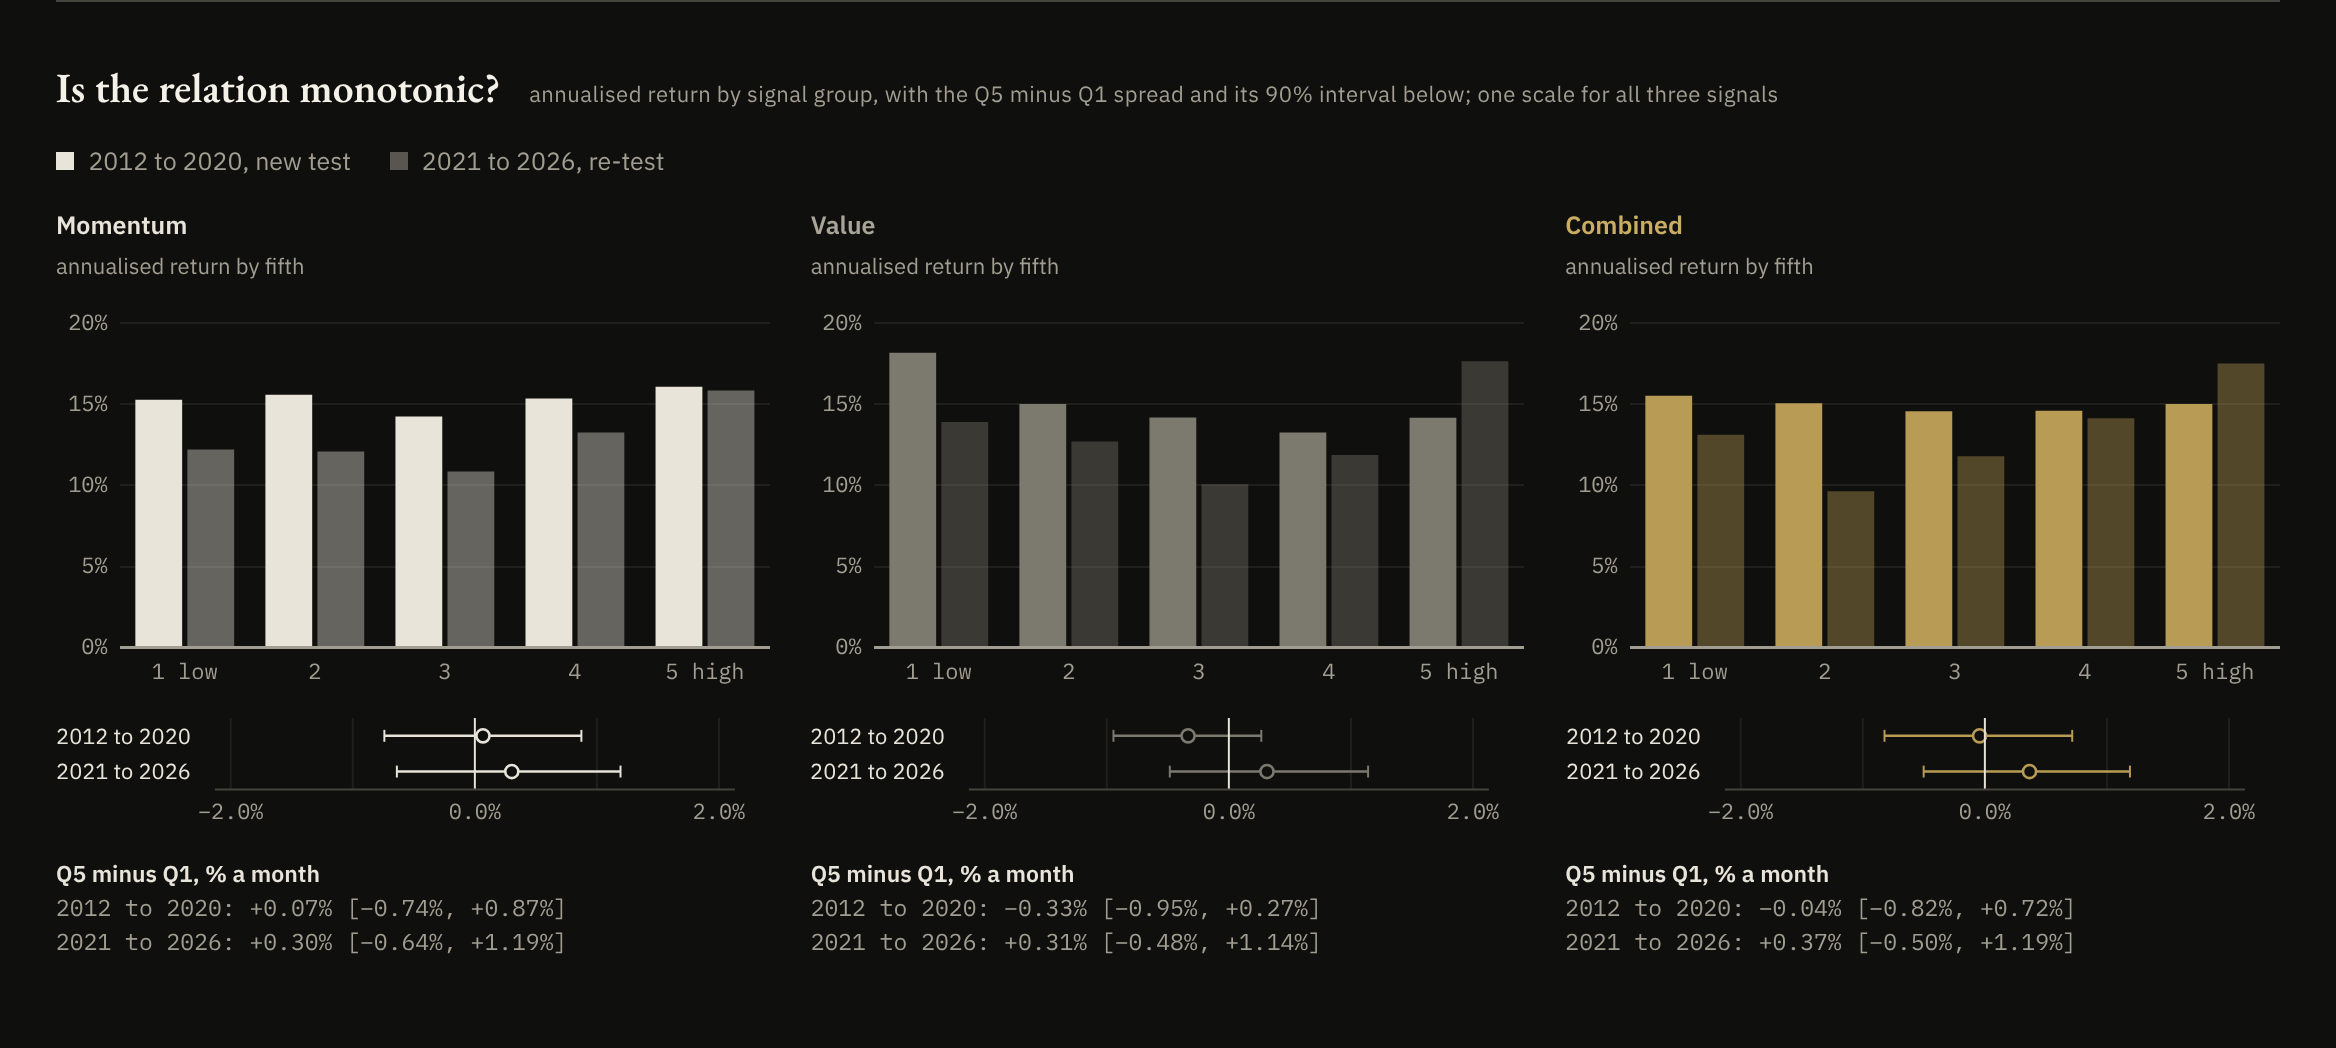
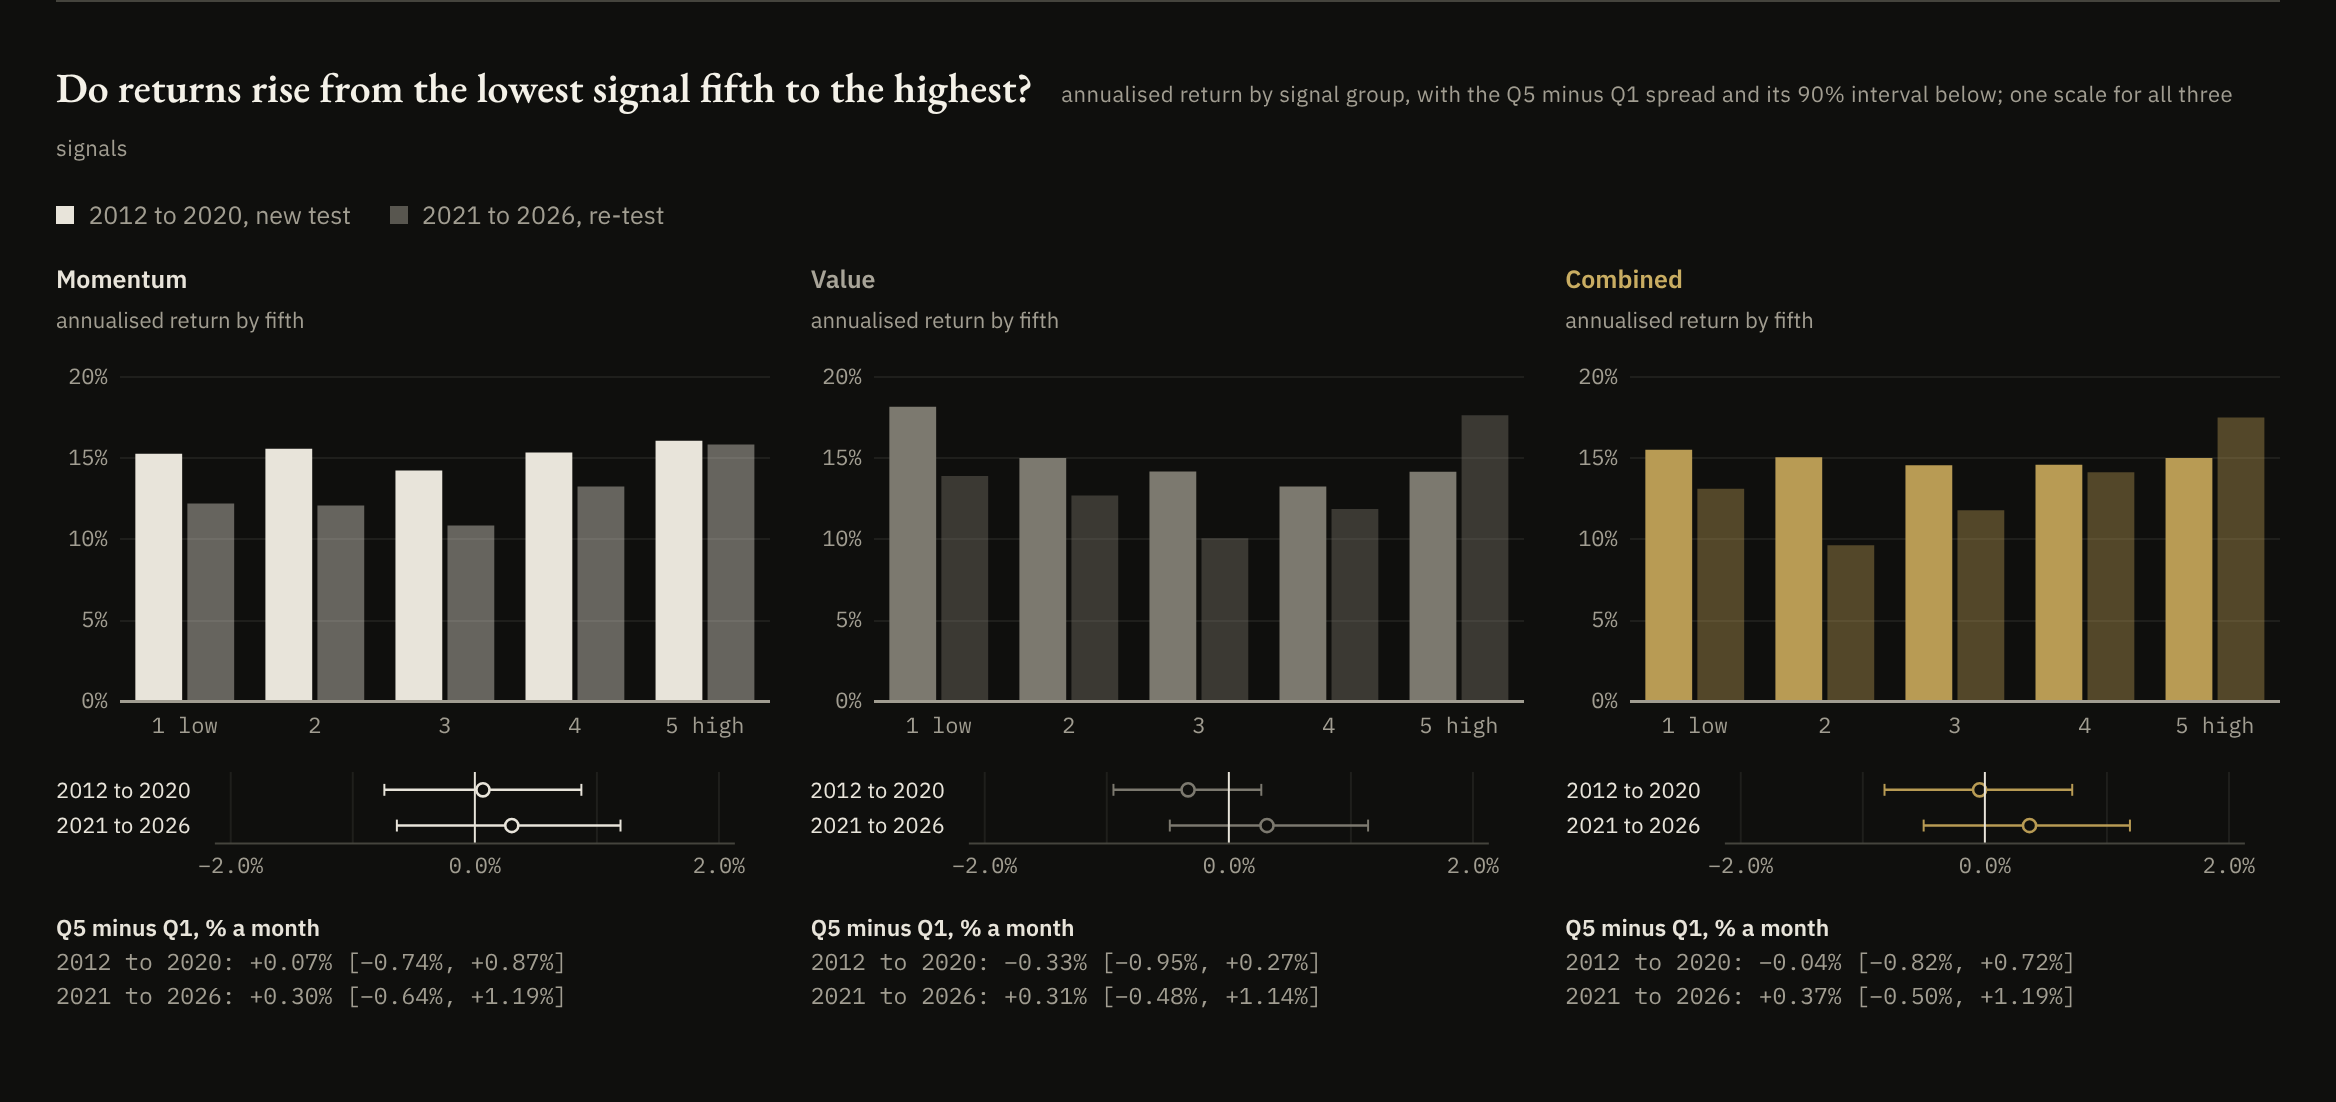
Dashboard: plainer panel titles on Summary, Signals and Method; recapture images 01, 05, 06
Summary titles say "can be told apart from zero" or "differs detectably",
count lines name what is counted, return headline notes survivorship, ledger
title no longer repeats the 33, plan-log title notes the 17-stock entries,
Signals heading is a direct question.

Claude-Session: https://claude.ai/code/session_011fgVJr68gJNNcQ627Q91RH

diff --git a/index.html b/index.html
@@ -17,8 +17,8 @@
 <meta name="color-scheme" content="dark">
 <link rel="icon" type="image/svg+xml" href="assets/favicon.svg">
 <title>Summary | Equity Factor Research</title>
-<script src="assets/theme.js?v=22"></script>
-<link rel="stylesheet" href="assets/styles.css?v=22">
+<script src="assets/theme.js?v=23"></script>
+<link rel="stylesheet" href="assets/styles.css?v=23">
 </head>
 <body>
 <div id="chrome"></div>
@@ -114,7 +114,7 @@
 <script src="assets/universe_stocks_data.js"></script>
 <script src="assets/universe_sens_data.js"></script>
 <script src="assets/meta_data.js"></script>
-<script src="assets/dashboard.js?v=22"></script>
+<script src="assets/dashboard.js?v=23"></script>
 <script>
 renderChrome("index.html", "S&amp;P 500 members &middot; Jan 2012 to Aug 2026 &middot; monthly &middot; Momentum (11-month) &middot; Value (P/B) &middot; Combined");
 const X = UNIVERSE_EXTRAS;
@@ -191,7 +191,7 @@ const mde = minDetectableIC();
     sharpe: { axis: v => v.toFixed(1), val: v => sgn(v, 2) }
   };
   const TEST_TITLE = { rank_ic: "Rank IC", quintile_spread: "Quintile spread, a month", fama_macbeth_single: "Fama-MacBeth slope, one signal", fama_macbeth_joint: "Fama-MacBeth slope, Momentum and Value together" };
-  const counted = (el, flagged, total, tail) => { document.getElementById(el).innerHTML = `<b>${flagged} of ${total}</b> exclude zero<span>${tail}</span>`; };
+  const counted = (el, flagged, total, noun, tail) => { document.getElementById(el).innerHTML = `<b>${flagged} of ${total}</b> ${noun} have a 90% interval that excludes zero<span>${tail}</span>`; };
   const chance = n => (n * 0.1).toFixed(1);
   const testRow = (r, rest) => ({ sig: r.signal, rest: ", " + rest, mean: r.mean, lo: r.ci_90_lower, hi: r.ci_90_upper, excl: r.excludes_zero });
 
@@ -202,8 +202,8 @@ const mde = minDetectableIC();
     rows: SIGNALS.flatMap(sig => PERIODS.map(p => tests.find(r => r.test === k && r.signal === sig && r.period === p.key && p)).filter(Boolean)
       .map(r => testRow(r, PERIOD_LABEL[r.period])))
   })).filter(b => b.rows.length);
-  document.getElementById("f1Title").textContent = flag1 === 0 ? "No registered signal test has a 90% interval that excludes zero" : flag1 + " of " + tests.length + " registered signal tests have a 90% interval that excludes zero";
-  counted("f1Count", flag1, tests.length, ", against about " + chance(tests.length) + " expected by chance");
+  document.getElementById("f1Title").textContent = flag1 === 0 ? "No registered signal test shows a relation that can be told apart from zero" : flag1 + " of " + tests.length + " registered signal tests show a relation that can be told apart from zero";
+  counted("f1Count", flag1, tests.length, "tests", ", against about " + chance(tests.length) + " expected by chance");
   familyForest("f1Forest", blocks1);
   document.getElementById("f1Caption").innerHTML = "Each row is one test: the estimate (marker) and its 90% bootstrap interval (line) against zero (vertical line). The tests are in different units, so each block has its own scale with zero in the same place. " +
     "A filled marker means the interval excludes zero; a hollow marker that it includes zero. The smallest effect each signal's 2012 to 2020 test could detect is in the Detectable effect table below. " +
@@ -216,8 +216,8 @@ const mde = minDetectableIC();
     const r = head.find(x => x.period === p.key && x.strategy === sig && x.size === z);
     if (r) rows2.push({ sig, rest: ", " + SIZE_LABEL[z].toLowerCase(), mean: r.diff, lo: r.lo, hi: r.hi, excl: r.sig });
   })); });
-  document.getElementById("f2Title").textContent = hit.length === 0 ? "No registered Sharpe comparison has a 90% interval that excludes zero" : hit.length + " of " + head.length + " registered Sharpe comparisons have a 90% interval that excludes zero";
-  counted("f2Count", hit.length, head.length, ", against about " + chance(head.length) + " expected by chance");
+  document.getElementById("f2Title").textContent = hit.length === 0 ? "No registered portfolio differs detectably from its benchmark on Sharpe ratio" : (hit.length > 1 && hit.every(r => r.strategy === hit[0].strategy && r.period === hit[0].period)) ? "Only " + hit[0].strategy + " in " + PERIOD_LABEL[hit[0].period] + " differs detectably from its benchmark on Sharpe ratio" : hit.length + " of " + head.length + " registered portfolio comparisons differ detectably on Sharpe ratio";
+  counted("f2Count", hit.length, head.length, "Sharpe comparisons", ", against about " + chance(head.length) + " expected by chance");
   familyForest("f2Forest", [{ title: "Sharpe difference, portfolio minus its own benchmark, annualised", fmt: FMT.sharpe, rows: rows2 }]);
   const sameSignal = hit.length > 1 && hit.every(r => r.strategy === hit[0].strategy && r.period === hit[0].period);
   document.getElementById("f2Caption").innerHTML = "Each portfolio is compared with the equal-weight benchmark of the stocks it could choose from, before costs; the interval is a paired bootstrap (5,000 resamples). " +
@@ -238,8 +238,8 @@ const mde = minDetectableIC();
     return { title: TEST_TITLE[k], fmt: FMT[k], rows };
   }).filter(b => b.rows.length > 3);
   const same = key => flag3.length > 0 && flag3.every(r => r[key] === flag3[0][key]);
-  document.getElementById("f3Title").textContent = flag3.length === 0 ? "No sensitivity variant has a 90% interval that excludes zero" : flag3.length + " of " + sens.length + " sensitivity variants have a 90% interval that excludes zero";
-  counted("f3Count", flag3.length, sens.length, ", counted separately from the registered tests");
+  document.getElementById("f3Title").textContent = flag3.length === 0 ? "No sensitivity variant can be told apart from zero" : flag3.length + " of " + sens.length + " sensitivity variants can be told apart from zero";
+  counted("f3Count", flag3.length, sens.length, "variants", ", counted separately from the registered tests");
   familyForest("f3Forest", blocks3, { rowH: 15 });
   document.getElementById("f3Caption").innerHTML = "The signal tests repeated with the book-value treatment changed: P/B winsorised, or the 24 or 37 names behind the largest book-value jumps excluded. They reuse the same returns, so they are not independent of the registered tests and are not part of the headline count" +
     (flag3.length && same("signal") && same("test") && same("period") ? ". All " + flag3.length + " that exclude zero are " + flag3[0].signal + ", " + flag3[0].test.replace(/_/g, " ") + ", " + PERIOD_LABEL[flag3[0].period] : "") +
@@ -270,8 +270,8 @@ const mde = minDetectableIC();
   const end = rel.map(o => o.data[o.data.length - 1]);
   const full = SIGNALS.map(sig => U.summary.find(x => x.period === PERIODS[2].key && x.strategy === sig && x.size === "top_decile" && x.basis === "gross"));
   const ahead = end.filter(v => v > 1).length, sigCount = full.filter(r => r.sig).length;
-  document.getElementById("relTitle").textContent = ahead + " of 3 top-decile portfolios ended ahead of their own benchmarks on cumulative return, before costs (" + SIGNALS.map((s, i) => s + " " + end[i].toFixed(2)).join(", ") + "), but " +
-    (sigCount === 0 ? "no full-period Sharpe difference excludes zero" : sigCount + " full-period Sharpe differences exclude zero");
+  document.getElementById("relTitle").textContent = ahead + " of 3 top-decile portfolios ended ahead of their own benchmarks on cumulative return, before costs (" + SIGNALS.map((s, i) => s + " " + end[i].toFixed(2)).join(", ") + "; survivorship inflates these levels, and " +
+    (sigCount === 0 ? "no full-period Sharpe difference is detectable" : sigCount + " full-period Sharpe differences are detectable");
   new Chart(document.getElementById("relChart"), {
     type: "line",
     data: { labels, datasets: rel.map(o => ({ label: o.sig, data: o.data, borderColor: COLORS[o.sig], backgroundColor: COLORS[o.sig], pointRadius: 0, tension: 0 })) },

diff --git a/method.html b/method.html
@@ -11,8 +11,8 @@
 <meta name="color-scheme" content="dark">
 <link rel="icon" type="image/svg+xml" href="assets/favicon.svg">
 <title>Method | Equity Factor Research</title>
-<script src="assets/theme.js?v=22"></script>
-<link rel="stylesheet" href="assets/styles.css?v=22">
+<script src="assets/theme.js?v=23"></script>
+<link rel="stylesheet" href="assets/styles.css?v=23">
 </head>
 <body>
 <div id="chrome"></div>
@@ -136,7 +136,7 @@
 <script src="assets/universe_data.js"></script>
 <script src="assets/meta_data.js"></script>
 <script src="assets/universe_ledger_data.js"></script>
-<script src="assets/dashboard.js?v=22"></script>
+<script src="assets/dashboard.js?v=23"></script>
 <script>
 renderChrome("method.html", "Pre-specified design &middot; frozen signals &middot; no tuning &middot; every variant reported");
 document.getElementById("planLogLine").textContent = planLogSentence();
@@ -147,7 +147,7 @@ document.getElementById("planLogLine").textContent = planLogSentence();
   const counted = L.filter(r => !descriptive(r));
   const run = counted.reduce((a, r) => a + r.intervals_run, 0), ex = counted.reduce((a, r) => a + r.exclude_zero, 0);
   const esc = v => String(v).replace(/&/g, "&amp;").replace(/</g, "&lt;");
-  document.getElementById("ledgerFullTitle").textContent = run + " intervals in " + counted.length + " families, " + ex + " exclude zero, none of them among the 33 registered signal tests";
+  document.getElementById("ledgerFullTitle").textContent = run + " intervals in " + counted.length + " families; " + ex + " exclude zero, none of them a registered signal test";
   const chance = r => ["Registered", "Sensitivity", "Exploratory, after results"].includes(r.tier) ? (r.intervals_run * 0.1).toFixed(1) : "n/a";
   let t = "<thead><tr><th>ID</th><th>Family</th><th class=num>Run</th><th class=num>Exclude zero</th><th class=num>Positive</th><th class=num>Negative</th><th class=num>Expected by chance</th></tr></thead><tbody>", tier = "";
   L.forEach(r => {
@@ -219,7 +219,7 @@ document.getElementById("regBody").innerHTML = LOG.map(e =>
   svg.setAttribute("viewBox", `0 0 ${W} ${H}`);
   svg.innerHTML = s;
   const post = LOG.filter(e => e.kind === "post").length;
-  document.getElementById("tlTitle").textContent = META.entries.length + " plan entries: " + (META.entries.length - post) + " written before the results they concern, " + post + " after every registered result existed";
+  document.getElementById("tlTitle").textContent = META.entries.length + " plan entries: " + (META.entries.length - post) + " written before the results they concern, " + post + " after every registered result existed (the timeline below also marks the 2 entries of the 17-stock study plan)";
 })();
 
 /* power: (z_alpha + z_power) * sd / sqrt(n), with z_alpha = 1.645 (90% two-sided) and z_power = 0.842 (80%) */

diff --git a/signals.html b/signals.html
@@ -11,8 +11,8 @@
 <meta name="color-scheme" content="dark">
 <link rel="icon" type="image/svg+xml" href="assets/favicon.svg">
 <title>Signals | Equity Factor Research</title>
-<script src="assets/theme.js?v=22"></script>
-<link rel="stylesheet" href="assets/styles.css?v=22">
+<script src="assets/theme.js?v=23"></script>
+<link rel="stylesheet" href="assets/styles.css?v=23">
 </head>
 <body>
 <div id="chrome"></div>
@@ -41,7 +41,7 @@
     </div>
 
     <div class="panel" data-stamp="exploratory" data-src="results/universe_study_quintile_returns.csv">
-      <h2>Is the relation monotonic? <span>annualised return by signal group, with the Q5 minus Q1 spread and its 90% interval below; one scale for all three signals</span></h2>
+      <h2>Do returns rise from the lowest signal fifth to the highest? <span>annualised return by signal group, with the Q5 minus Q1 spread and its 90% interval below; one scale for all three signals</span></h2>
       <div class="legend-row"><span><i class="ghost-solid"></i>2012 to 2020, new test</span><span><i class="ghost-light"></i>2021 to 2026, re-test</span></div>
       <div class="grp-grid">
         <div><div class="grp-title"><b style="color:var(--momentum-text)">Momentum</b><span id="qsMomentum"></span></div><div class="grp-canvas"><canvas id="qMomentum" role="img" aria-label="Bar chart. Annualised return of the five Momentum signal groups, lowest to highest, for 2012 to 2020 and 2021 to 2026."></canvas></div><svg class="forest spread" id="qspMomentum" role="img" aria-label="Q5 minus Q1 spread for Momentum: estimate and 90% interval for 2012 to 2020 and 2021 to 2026, against zero, on a scale shared by the three signals"></svg><div class="spread-text" id="qtMomentum"></div></div>
@@ -123,7 +123,7 @@
 <script src="assets/universe_extras_data.js"></script>
 <script src="assets/universe_controls_data.js"></script>
 <script src="assets/meta_data.js"></script>
-<script src="assets/dashboard.js?v=22"></script>
+<script src="assets/dashboard.js?v=23"></script>
 <script>
 renderChrome("signals.html", "Rank IC &middot; quintile spread &middot; Fama-MacBeth &middot; 90% bootstrap intervals (5,000 resamples)");
 const S = UNIVERSE_SENS;

diff --git a/universe.html b/universe.html
@@ -11,8 +11,8 @@
 <meta name="color-scheme" content="dark">
 <link rel="icon" type="image/svg+xml" href="assets/favicon.svg">
 <title>Universe | Equity Factor Research</title>
-<script src="assets/theme.js?v=22"></script>
-<link rel="stylesheet" href="assets/styles.css?v=22">
+<script src="assets/theme.js?v=23"></script>
+<link rel="stylesheet" href="assets/styles.css?v=23">
 </head>
 <body>
 <div id="chrome"></div>
@@ -178,7 +178,7 @@
 <script src="assets/universe_stocks_data.js"></script>
 <script src="assets/universe_holdings_data.js"></script>
 <script src="assets/meta_data.js"></script>
-<script src="assets/dashboard.js?v=22"></script>
+<script src="assets/dashboard.js?v=23"></script>
 <script>
 renderChrome("universe.html", "Free data &middot; survivor-biased &middot; top-decile portfolios, equal weight, rebalanced monthly &middot; every ticker that was in the index");
 const H = UNIVERSE_HOLDINGS;

diff --git a/portfolios.html b/portfolios.html
@@ -11,8 +11,8 @@
 <meta name="color-scheme" content="dark">
 <link rel="icon" type="image/svg+xml" href="assets/favicon.svg">
 <title>Portfolios | Equity Factor Research</title>
-<script src="assets/theme.js?v=22"></script>
-<link rel="stylesheet" href="assets/styles.css?v=22">
+<script src="assets/theme.js?v=23"></script>
+<link rel="stylesheet" href="assets/styles.css?v=23">
 </head>
 <body>
 <div id="chrome"></div>
@@ -153,7 +153,7 @@
 <script src="assets/universe_controls_data.js"></script>
 <script src="assets/universe_factor4_data.js"></script>
 <script src="assets/meta_data.js"></script>
-<script src="assets/dashboard.js?v=22"></script>
+<script src="assets/dashboard.js?v=23"></script>
 <script>
 renderChrome("portfolios.html", "Equal weight &middot; rebalanced monthly &middot; 10 bps one-way costs &middot; benchmark: equal-weight average of usable names");
 

diff --git a/scripts/capture_readme_images.py b/scripts/capture_readme_images.py
@@ -29,7 +29,7 @@ SHOTS = [
     ("03-sharpe-differences.png", "portfolios.html", "", "#leadTitle"),
     ("04-growth-and-drawdown.png", "portfolios.html", "", "#growthTitle"),
     ("05-plan-log.png", "method.html", "#log", "#tlTitle"),
-    ("06-return-by-group.png", "signals.html", "", "Is the relation monotonic?"),
+    ("06-return-by-group.png", "signals.html", "", "Do returns rise from the lowest signal fifth to the highest?"),
 ]
 
 
